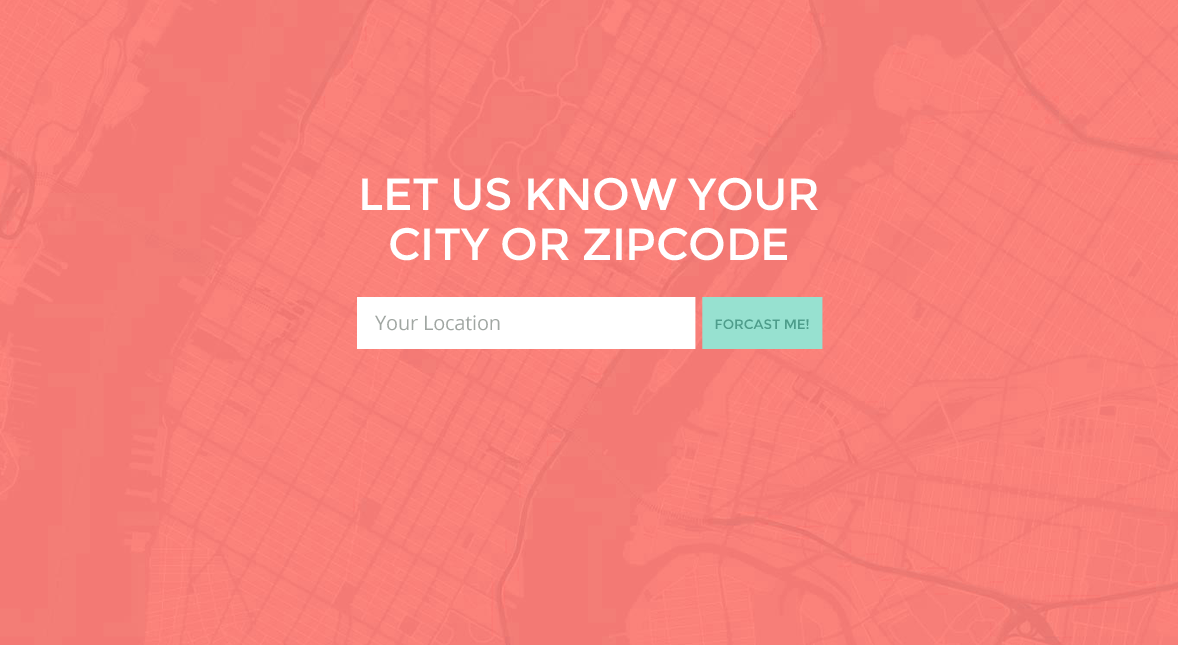
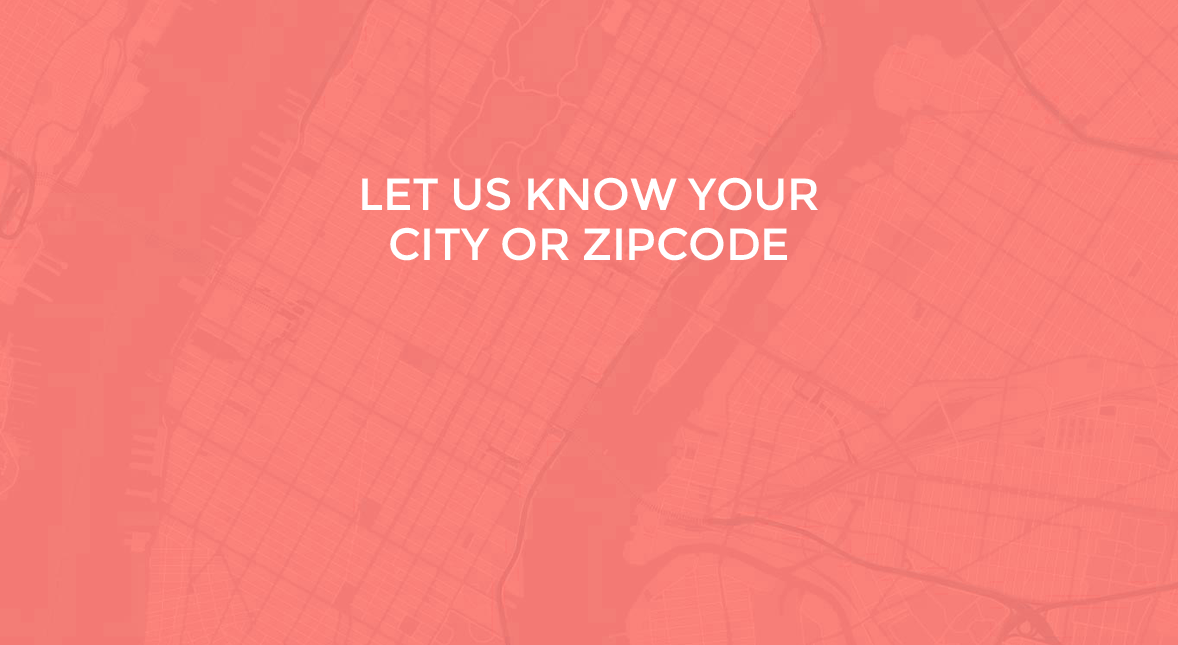
Finalized version

Changed region(s): [[0.3056, 0.4341, 0.7029, 0.5581]]

diff --git a/public/style.css b/public/style.css
@@ -67,12 +67,14 @@ font-size: 30px;
 	-moz-background-size: cover;
 	-o-background-size: cover;
 	background-size: cover;
+	padding-top: 250px;
 }
 
 #other {
 	height: 645px;
 	width: 1175px;
 	background: green;
+	padding-top: 250px;
 }
 
 #home {
@@ -85,6 +87,10 @@ font-size: 30px;
 	background-size: cover;
 }
 
+#map-form {
+	padding-top: 300px;
+}
+
 #rainy { 	
 	height: 645px;
 	width: 1175px;
@@ -93,6 +99,7 @@ font-size: 30px;
 	-moz-background-size: cover;
 	-o-background-size: cover;
 	background-size: cover;
+	padding-top: 250px;
 }
 
 #snowy { 	
@@ -103,6 +110,7 @@ font-size: 30px;
 	-moz-background-size: cover;
 	-o-background-size: cover;
 	background-size: cover;
+	padding-top: 250px;
 }
 
 #sunny {	
@@ -113,5 +121,6 @@ font-size: 30px;
 	-moz-background-size: cover;
 	-o-background-size: cover;
 	background-size: cover;
+	padding-top: 250px;
 }
 

diff --git a/views/style.css b/views/style.css
@@ -57,6 +57,7 @@ color: LightGrey;
 font-family: "Avant Garde", Avantgarde, "Century Gothic", CenturyGothic, "AppleGothic", sans-serif;
 text-align: center;
 font-size: 30px;
+padding-top: 205px;
 }
 
 #cloudy {
@@ -77,6 +78,8 @@ font-size: 30px;
 	-moz-background-size: cover;
 	-o-background-size: cover;
 	background-size: cover;
+	margin-top: 250px;
+	padding-top: 250px;
 }
 
 #rainy { 
